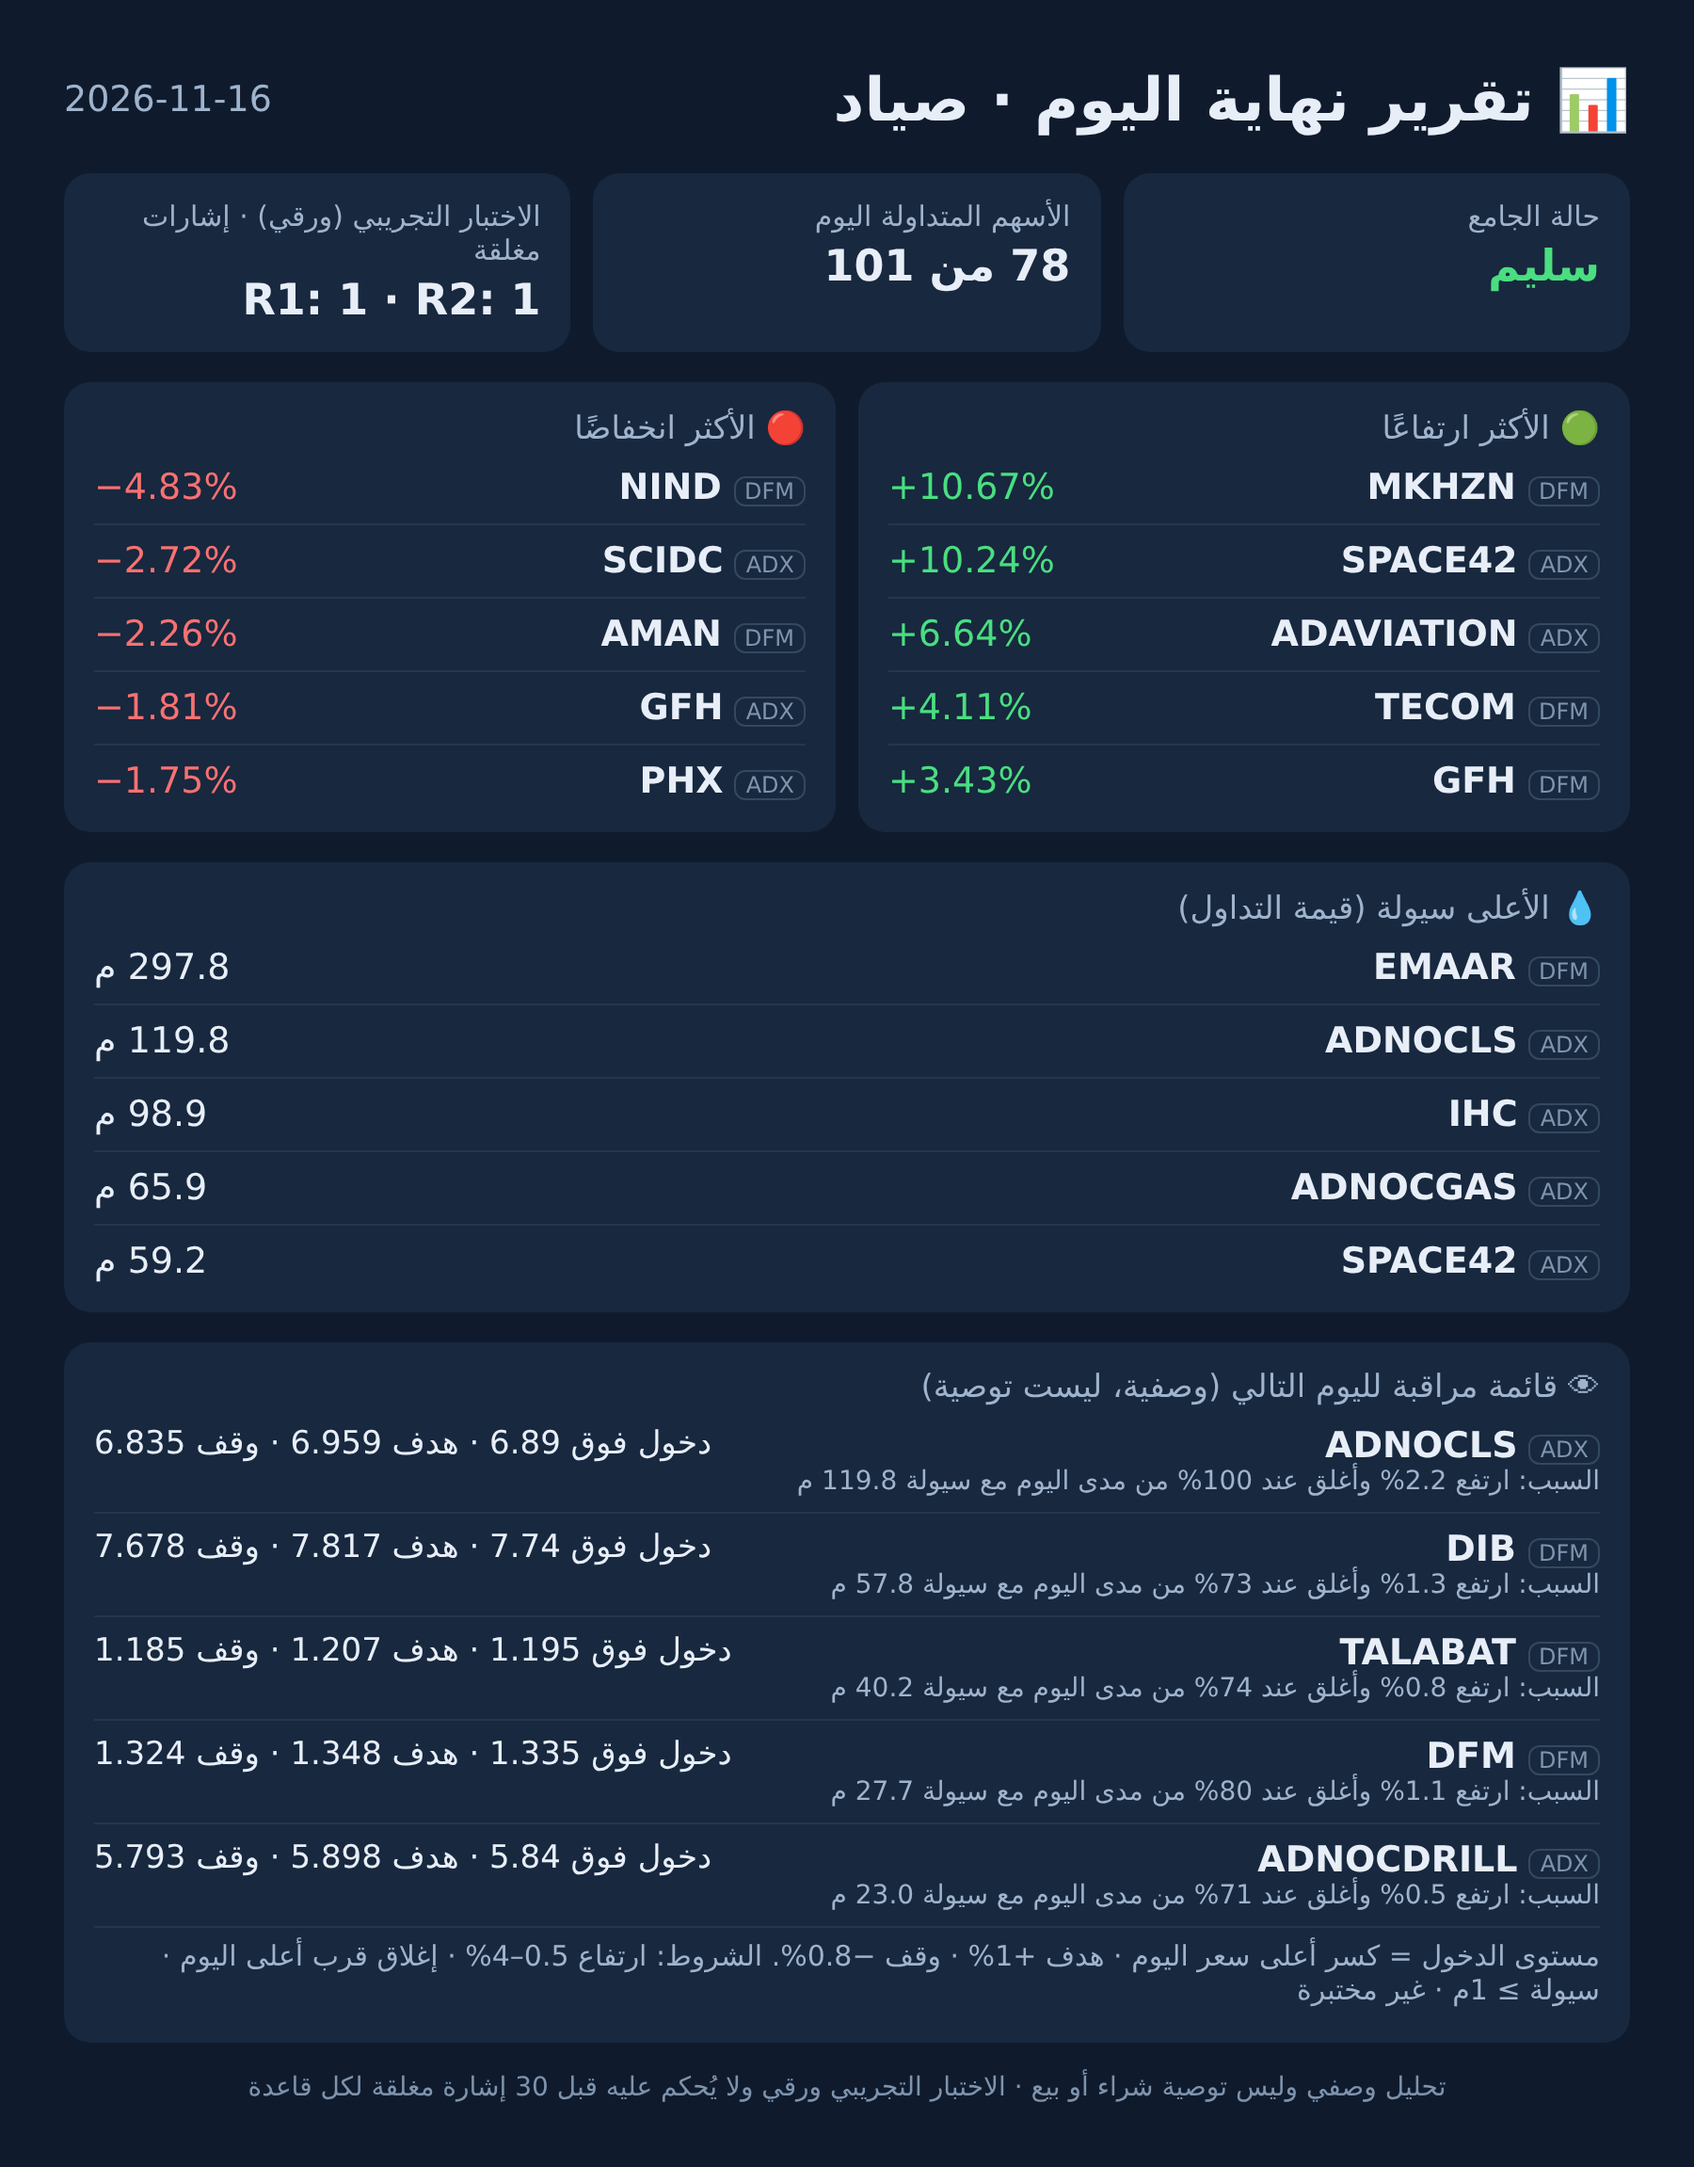
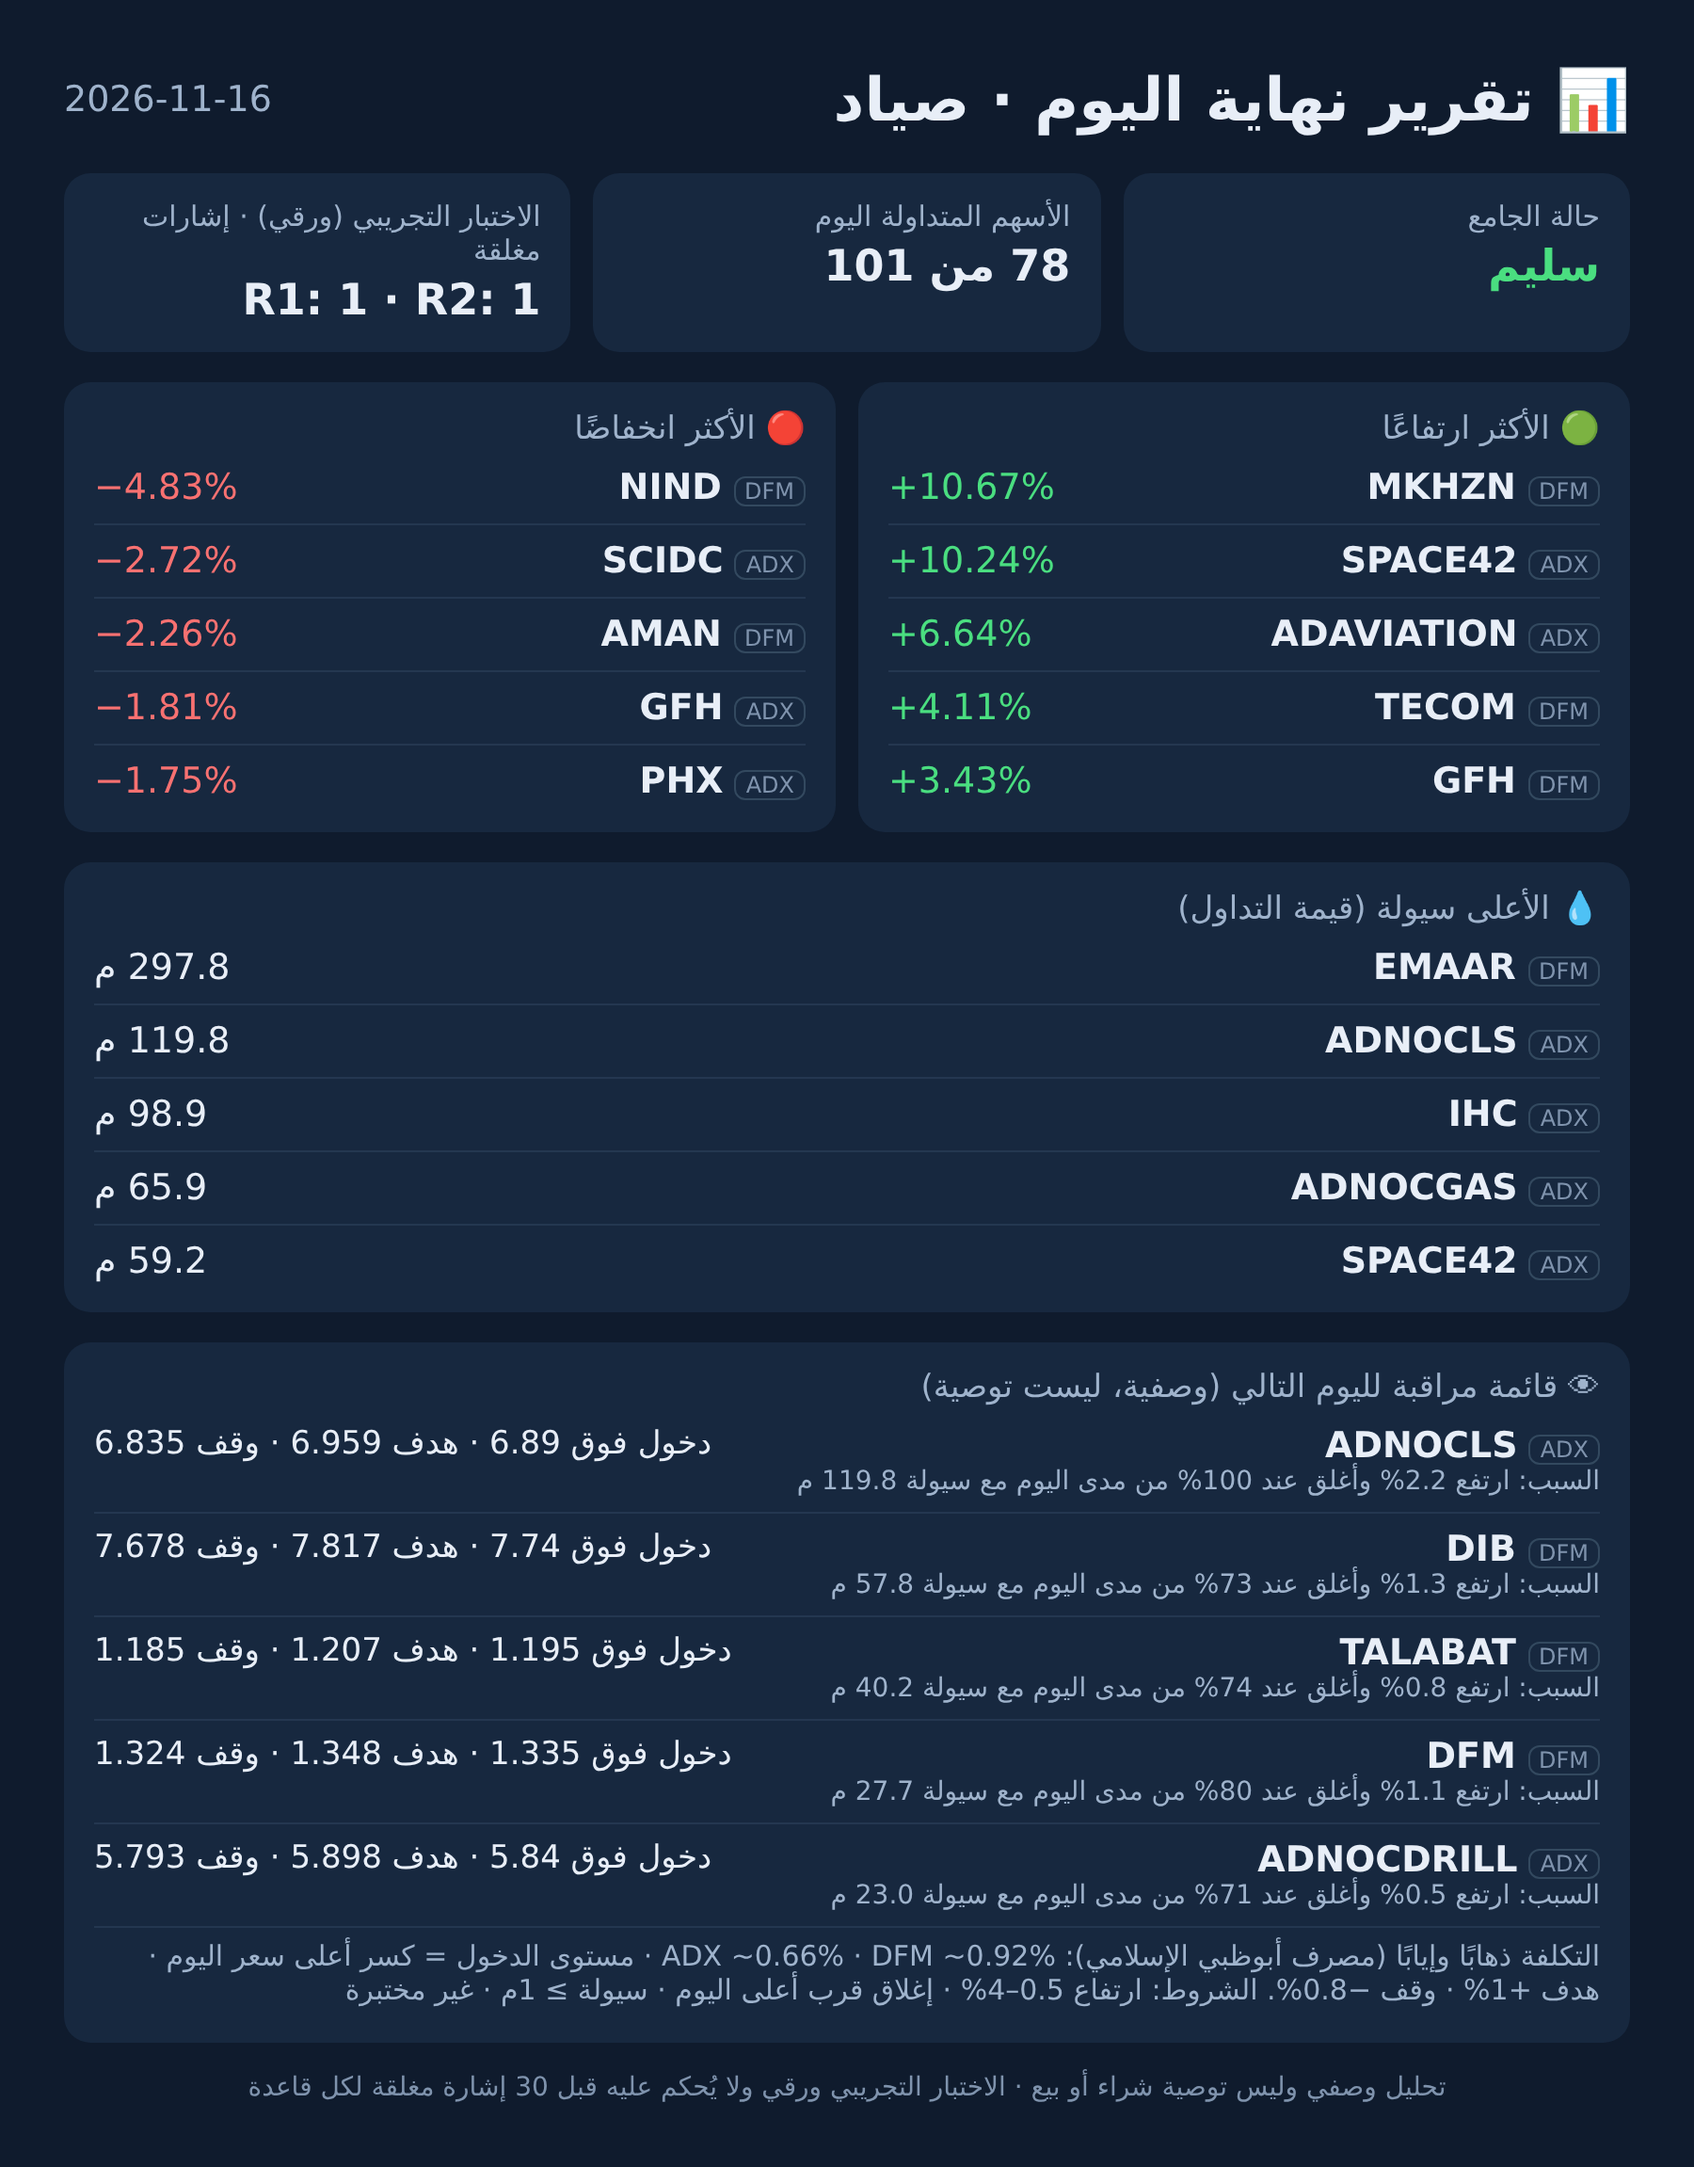
fix format escape
Claude-Session: https://claude.ai/code/session_01TtkEuYsZ4h1TUWm22gs7JN

Changed region(s): [[0.0933, 0.8944, 0.9333, 0.9253]]

diff --git a/report.py b/report.py
@@ -115,7 +115,7 @@ def build():
     prev = [d for d in sorted(log) if d < day and any(i.get("result") for i in log[d])]
     watch_eval = [dict(s=i["s"], m=i["m"], nom_day=d, reason=i["reason"], **i["result"]) for d in prev[-1:] for i in log[d] if i.get("result")]
     for r in watch: r["reason"] = reason(r)
-    tb = ["قائمة مراقبة لغدٍ (وصفية، غير مختبرة؛ الدخول = كسر أعلى سعر اليوم، هدف +1%، وقف -0.8%، وتكلفة الذهاب والإياب حسب مصرف أبوظبي الإسلامي: ADX نحو %.2f%% و DFM نحو %.2f%% شاملة الرسوم وVAT والفارق السعري، ولم تُخصم من المستويات)" % (rt_cost("ADX") * 100, rt_cost("DFM") * 100)]
+    tb = ["قائمة مراقبة لغدٍ (وصفية، غير مختبرة؛ الدخول = كسر أعلى سعر اليوم، هدف +1%%، وقف -0.8%%، وتكلفة الذهاب والإياب حسب مصرف أبوظبي الإسلامي: ADX نحو %.2f%% و DFM نحو %.2f%% شاملة الرسوم وVAT والفارق السعري، ولم تُخصم من المستويات)" % (rt_cost("ADX") * 100, rt_cost("DFM") * 100)]
     for r in watch: tb.append("%s: دخول فوق %s | هدف %s | وقف %s | السبب: %s" % (r["s"], r["entry"], r["tgt"], r["stp"], r["reason"]))
     if not watch: tb.append("لا يوجد سهم يحقق الشروط اليوم")
     if watch_eval:
